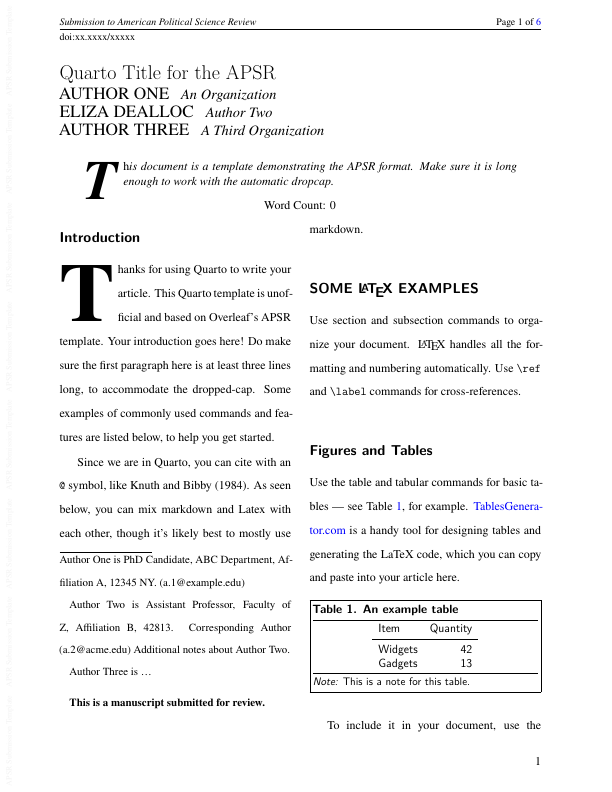
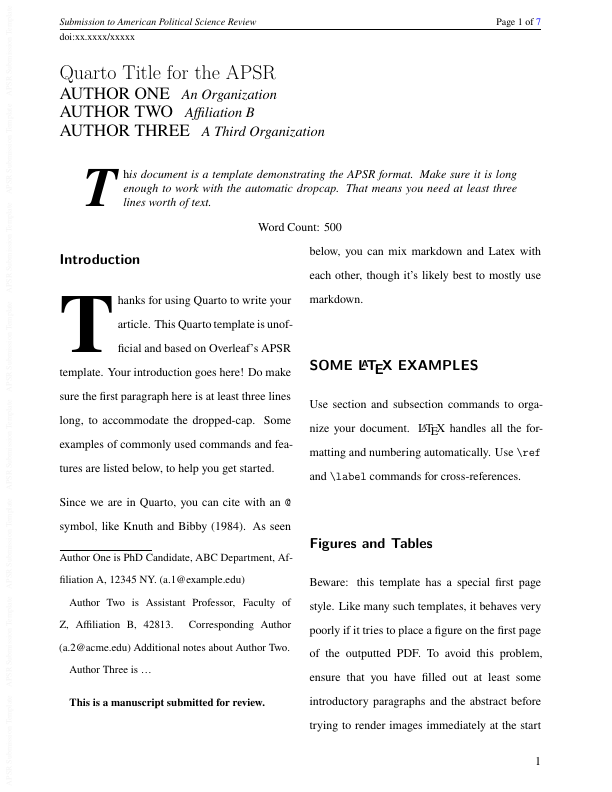
improve defaults, easier wordcounting

Changed region(s): [[0.0931, 0.0909, 0.9003, 0.9394]]

diff --git a/_extensions/apsr/partials/doc-class.tex b/_extensions/apsr/partials/doc-class.tex
@@ -1,1 +1,1 @@
-\documentclass[bibtex, $if(nonblind)$ nonblind,$endif$$for(classoption)$$classoption$$sep$, $endfor$]{apsr_submission}
+\documentclass[$if(nonblind)$ nonblind,$endif$$for(classoption)$$classoption$$sep$, $endfor$]{apsr_submission}

diff --git a/_extensions/apsr/partials/title.tex b/_extensions/apsr/partials/title.tex
@@ -24,3 +24,7 @@ $endif$
 $if(runningauthor)$
 \runningauthor{$runningauthor$}
 $endif$ 
+
+$if(word-count)$
+\totalwordcount{$word-count$}
+$endif$

diff --git a/README.md b/README.md
@@ -27,14 +27,18 @@ format:
 
 ## Options
 
-- This template is locked in to use `bibtex`.
-- Other options can be set using the `classoption` in the header:
+- `word-count`: Specify the word count. This can be calculated with a [wordcountaddin](https://github.com/benmarwick/wordcountaddin).
+- `runningtitle`: a short paper title
+- `runningauthor`: author names, listed out if less than 4, or First Author et al. if 4 or more.
+- Some options can be set using the `classoption` in the header:
   - `twocolumn`: Switch to two column for main text
   - `singlespace`/`onehalfspace`/**`doublespace`**: 
          changes line spacing for main text
   - **`blind`**/`nonblind`: Anonymises authors 
          and affiliations, or not
     - this option can also be set by making `nonblind: true` in the header
+  - **`bibtex`** is the default when no citation style is specified.
+
 
 
 ## Example
